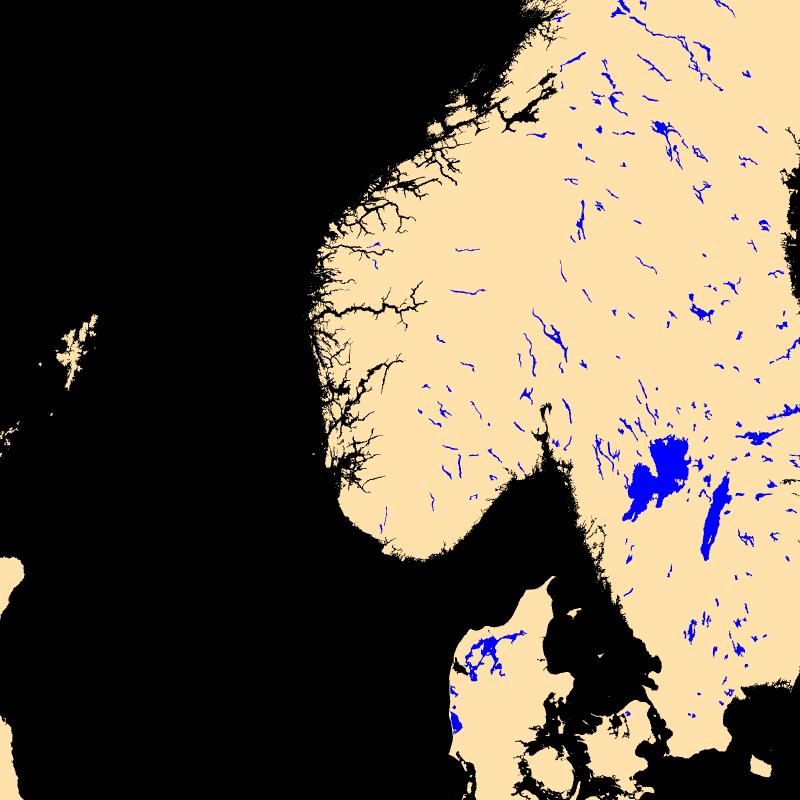
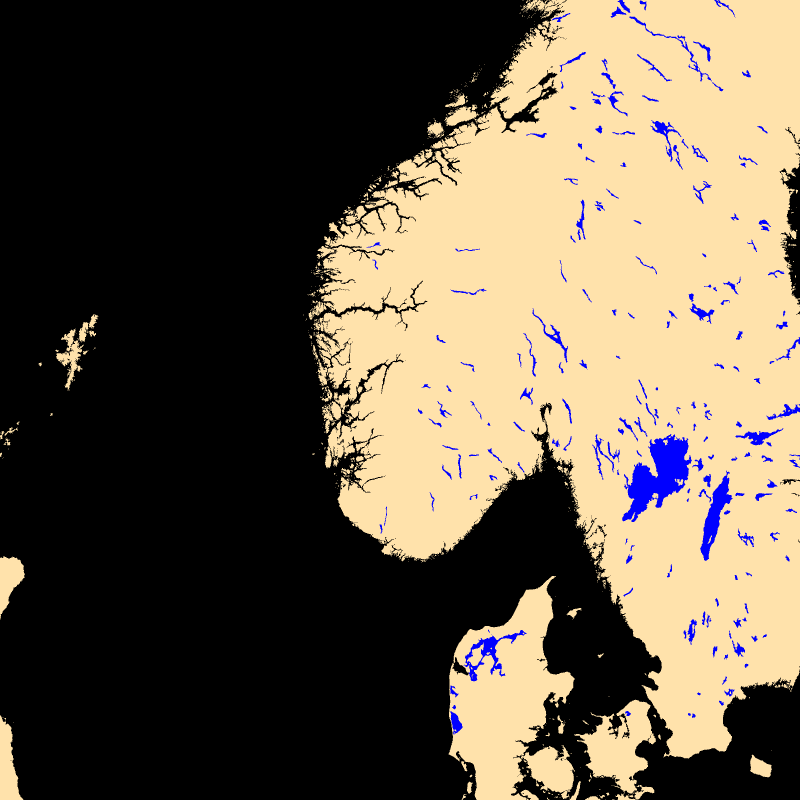
Remove EarCut; land is triangulated with CDT only
- Remove src/glGrib/EarCut.cc, include/glGrib/EarCut.h and the option
  --land.layers[i].earcut.on. Land::layer_t::triangulateCDT becomes
  triangulate. A ring CDT cannot triangulate is left unfilled, with a
  warning (no such ring in the GSHHS or Natural Earth files).
- Tests: regenerate the reference images of land and land_high; add
  land_rivers (Lena at Yakutsk, h resolution) and land_naturalearth
  (Natural Earth 10m, Antarctica), documented in share/doc/glgrib/LAND.md.
- share/doc/earcut: keep an unchanged copy of EarCut in tools/earcut for
  the report tools (tri_driver, earcut_driver, instrumentation patch);
  the scripts accept SHP= to use the GSHHS files as they were before
  cleaning (commit 0dc6400a), with which the reports were made.

Changed region(s): [[0.5312, 0.1562, 0.5625, 0.1875]]

diff --git a/src/glGrib/Land.cc b/src/glGrib/Land.cc
@@ -3,7 +3,6 @@
 #include "glGrib/OpenGL.h"
 #include "glGrib/ShapeLib.h"
 #include "glGrib/Options.h"
-#include "glGrib/EarCut.h"
 #include "glGrib/ConstrainedDelaunay.h"
 #include "glGrib/Subdivide.h"
 
@@ -40,101 +39,7 @@ void Land::render (const View & view, const OptionsLight & light) const
 
 }
 
-void Land::layer_t::triangulate 
-    (int_v * _pos_offset, 
-     int_v * _pos_length,
-     int_v * _ind_offset,
-     int_v * _ind_length,
-     const std::vector<unsigned int> & indl,
-     std::vector<float> * _lonlat,
-     int_v * _ord,
-     std::vector<unsigned int> * _ind)
-{
-  int_v   & pos_offset = *_pos_offset;
-  int_v   & pos_length = *_pos_length;
-  int_v   & ind_offset = *_ind_offset;
-  int_v   & ind_length = *_ind_length;
-  std::vector<float> & lonlat     = *_lonlat    ;
-  int_v   & ord        = *_ord       ;
-  std::vector<unsigned int> & ind = *_ind       ;
-
-  // Offset/length of each ring
-  pos_offset.push_back (+0);
-  pos_length.push_back (-1);
-
-  for (size_t i = 0; i < indl.size (); i++)
-    {
-      if (indl[i] == OpenGL::restart)
-        {
-          if (i < indl.size ()-1)
-            {
-              pos_offset.push_back (indl[i+1]);
-              pos_length.push_back (-1);
-	    }
-	}
-      else
-        {
-          pos_length.back ()++;
-	}
-    }
-
-  // Sort rings (bigger first)
-  ord.resize (pos_length.size ());
-
-  for (size_t i = 0; i < pos_length.size (); i++)
-    ord[i] = i;
-
-  std::sort (ord.begin (), ord.end (), [&pos_length] (int i, int j) 
-             { return pos_length[j] < pos_length[i]; });
-
-
-  // Offset/length for each indices block 
-  ind_offset.resize (ord.size ());
-  ind_length.resize (ord.size ());
-
-  int ind_size = 0;
-  for (size_t k = 0; k < ord.size (); k++)
-    {
-      if (pos_length[k] > 2)
-        {
-          ind_length[k] = 3 * (pos_length[k] - 2);
-          if (k > 0)
-            ind_offset[k] = ind_offset[k-1] + ind_length[k-1];
-	  else
-            ind_offset[0] = 0;
-          ind_size += ind_length[k];
-        }
-    }
-
-  ind.resize (ind_size);
-
-  // Process big blocks serially, with OpenMP on inner loops
-  size_t k = 0;
-  for (k = 0; k < ord.size (); k++)
-    {
-      int j = ord[k];
-      if (pos_length[j] < 300)
-        break;
-      if (pos_length[j] > 2)
-        EarCut::processRing (lonlat, pos_offset[j], pos_length[j], 
-                             ind_offset[j], &ind_length[j],
-                             &ind, true);
-    }
-
-
-  // Process small blocks in parallel
-#pragma omp parallel for
-  for (size_t l = k; l < ord.size (); l++)
-    {
-      int j = ord[l];
-      if (pos_length[j] > 2)
-        EarCut::processRing (lonlat, pos_offset[j], pos_length[j], 
-                            ind_offset[j], &ind_length[j],
-                            &ind, false);
-    }
-}
-
-void Land::layer_t::triangulateCDT
+void Land::layer_t::triangulate
     (int_v * _pos_offset, 
      int_v * _pos_length,
      int_v * _ind_offset,
@@ -150,7 +55,7 @@ void Land::layer_t::triangulateCDT
   std::vector<float> & lonlat     = *_lonlat    ;
   std::vector<unsigned int> & ind = *_ind       ;
 
-  // Offset/length of each ring (as in triangulate : the closing point is not part of the ring)
+  // Offset/length of each ring (the closing point is not part of the ring)
   pos_offset.push_back (+0);
   pos_length.push_back (-1);
 
@@ -191,24 +96,14 @@ void Land::layer_t::triangulateCDT
       int j = ord[l], len = pos_length[j];
       if (len < 3)
         continue;
+      // A ring that cannot be triangulated is left empty
       if (! ConstrainedDelaunay::processRing (lonlat, pos_offset[j], len, &tri[j], &added[j]))
-        {
-          // Fall back to EarCut for this ring
-          nfail++;
-          std::vector<unsigned int> ind1 (3 * (len - 2));
-          int indl1 = ind1.size ();
-          EarCut::processRing (lonlat, pos_offset[j], len, 0, &indl1, &ind1, false);
-          ind1.resize (indl1);
-          for (size_t k = 0; k < ind1.size (); k++)
-            ind1[k] -= pos_offset[j];
-          tri[j].swap (ind1);
-          added[j].clear ();
-        }
+        nfail++;
     }
 
   if (nfail > 0)
     std::cerr << "Land : constrained Delaunay triangulation failed for " << nfail 
-              << " ring(s) of " << nr << ", EarCut used instead" << std::endl;
+              << " ring(s) of " << nr << ", not filled" << std::endl;
 
   // Added points are inserted right after the vertices of their ring, so that each
   // ring keeps a contiguous range of points (this is required by Subdivide)
@@ -376,17 +271,12 @@ void Land::layer_t::setup (const OptionsLandLayer & opts)
   ShapeLib::read (lopts, &lonlat, &indl, lopts.selector);
   
   int_v pos_offset, pos_length;
-  int_v ord;
   int_v ind_offset;
   int_v ind_length;
   std::vector<unsigned int> ind;
   
-  if (opts.earcut.on)
-    triangulate (&pos_offset, &pos_length, &ind_offset, &ind_length,
-                 indl, &lonlat, &ord, &ind);
-  else
-    triangulateCDT (&pos_offset, &pos_length, &ind_offset, &ind_length,
-                    indl, &lonlat, &ind);
+  triangulate (&pos_offset, &pos_length, &ind_offset, &ind_length,
+               indl, &lonlat, &ind);
   
   
   if (opts.subdivision.on)

diff --git a/include/glGrib/Land.h b/include/glGrib/Land.h
@@ -39,13 +39,8 @@ private:
     void triangulate (int_v *, int_v *,
                       int_v *, int_v *,
                       const std::vector<unsigned int> &,
-                      std::vector<float> *, int_v *,
+                      std::vector<float> *,
                       std::vector<unsigned int> *);
-    void triangulateCDT (int_v *, int_v *,
-                         int_v *, int_v *,
-                         const std::vector<unsigned int> &,
-                         std::vector<float> *,
-                         std::vector<unsigned int> *);
     void subdivide (const int_v &, const int_v &,
                     const int_v &, const int_v &,
                     std::vector<unsigned int> *, std::vector<float> *,

diff --git a/include/glGrib/Options.h b/include/glGrib/Options.h
@@ -1358,7 +1358,6 @@ public:
     DESC (subdivision.on,     Enable subdivision);
     DESC (scale,              Scale);
     DESC (color,              Land color);
-    DESC (earcut.on,          Triangulate with EarCut instead of constrained Delaunay);
     DESC_H (debug.on,         Debug);
   }
   std::string selector = "";
@@ -1370,10 +1369,6 @@ public:
     bool on            = true;
   } subdivision;
   OptionColor color = OptionColor ("#ffe2ab");
-  struct
-  {
-    bool on            = false;
-  } earcut;
   struct
   {
     bool on            = false;

diff --git a/share/doc/glgrib/LAND.md b/share/doc/glgrib/LAND.md
@@ -15,6 +15,26 @@
     share/glgrib/coastlines/shp/GSHHS_h_L5.shp --view.lon 7 --view.lat 60 
     --view.fov 2 
 ```
+## Display land surface, rivers (high resolution) -- land_rivers
+![](samples/land_rivers/TEST_0000.png)
+
+```
+    --land.on --land.layers[0].path 
+    share/glgrib/coastlines/shp/GSHHS_h_L1.shp --land.layers[1].path 
+    share/glgrib/coastlines/shp/GSHHS_h_L2.shp --land.layers[2].path 
+    share/glgrib/coastlines/shp/GSHHS_h_L3.shp --land.layers[3].path 
+    share/glgrib/coastlines/shp/GSHHS_h_L5.shp --view.lon 129.6 --view.lat 
+    62.7 --view.fov 1.2 
+```
+## Display land surface (Natural Earth 10m) -- land_naturalearth
+![](samples/land_naturalearth/TEST_0000.png)
+
+```
+    --land.on --land.layers[0].path 
+    share/glgrib/coastlines/naturalearth/ne_10m_land.shp 
+    --land.layers[1].off --land.layers[2].off --land.layers[3].off 
+    --view.lat -90 --view.fov 12 
+```
 ## Coastlines -- coastlines
 ![](samples/coastlines/TEST_0000.png)
 
